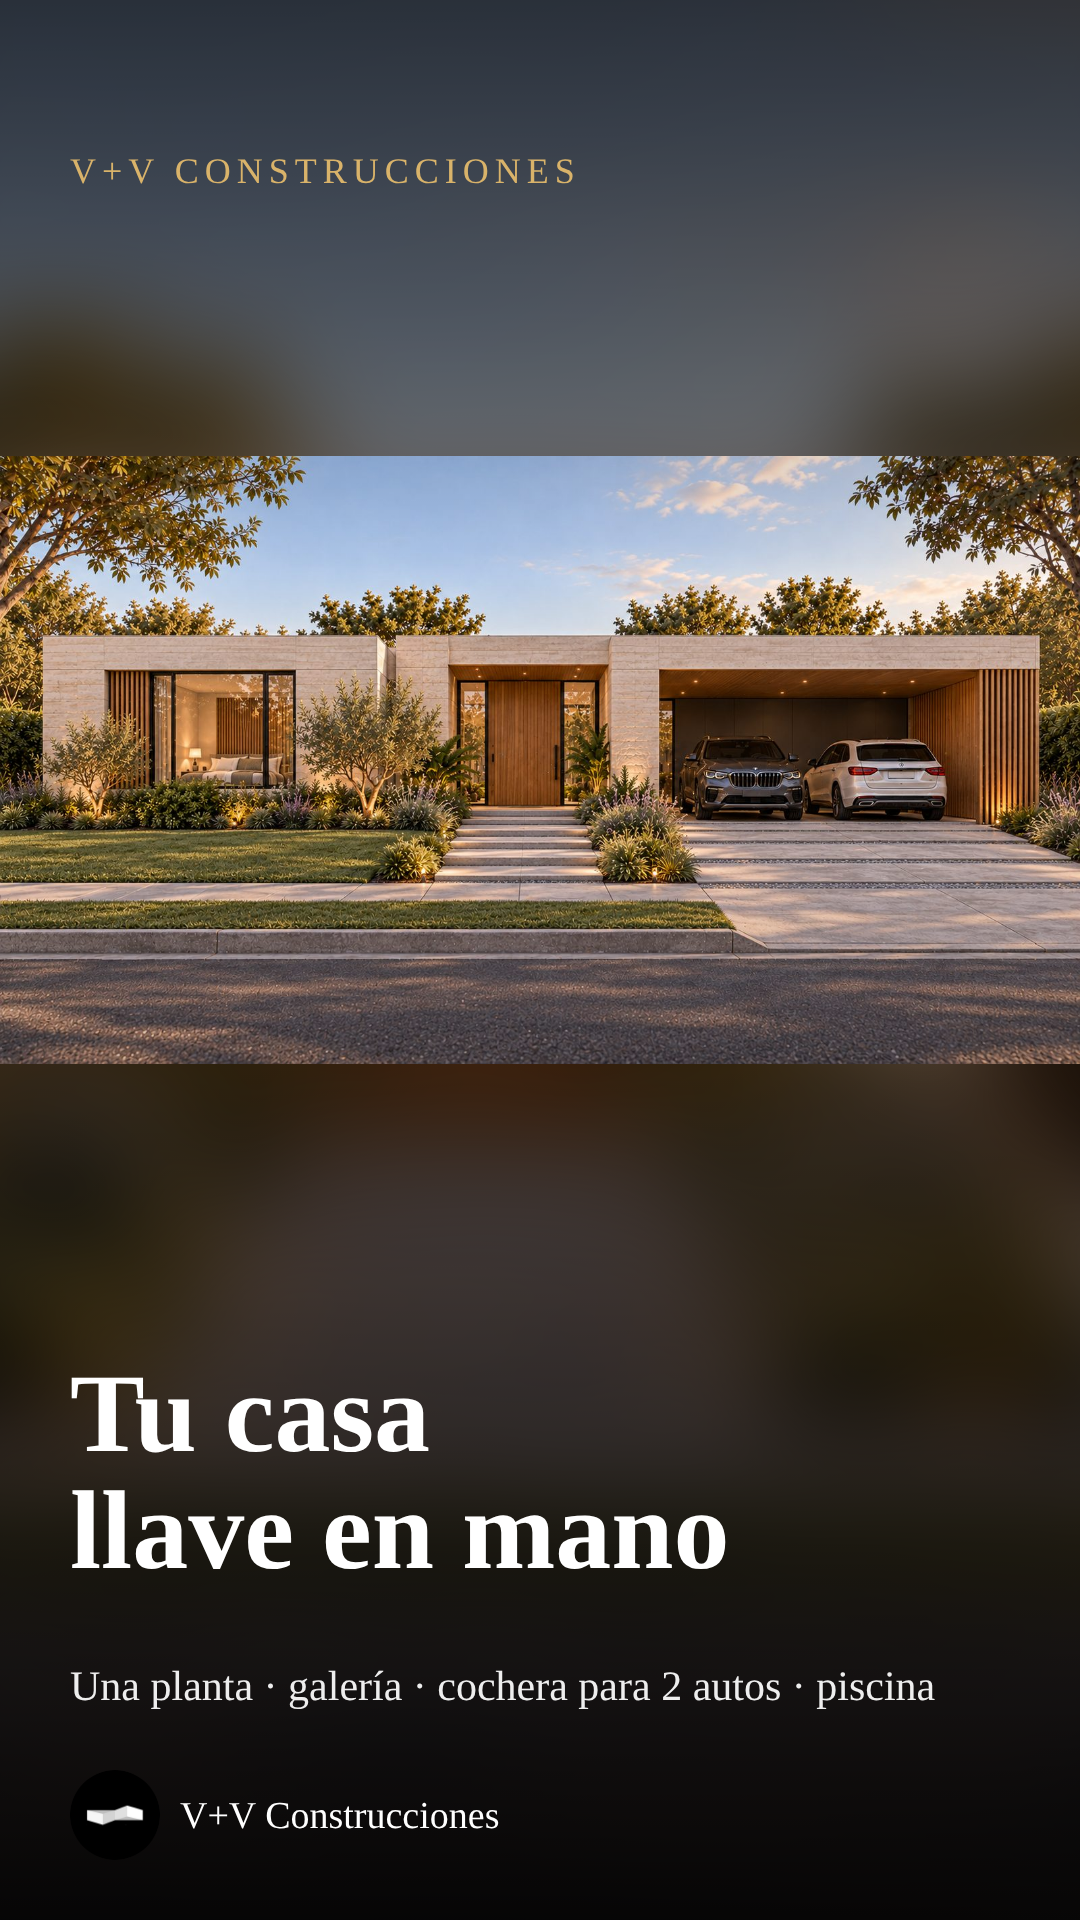
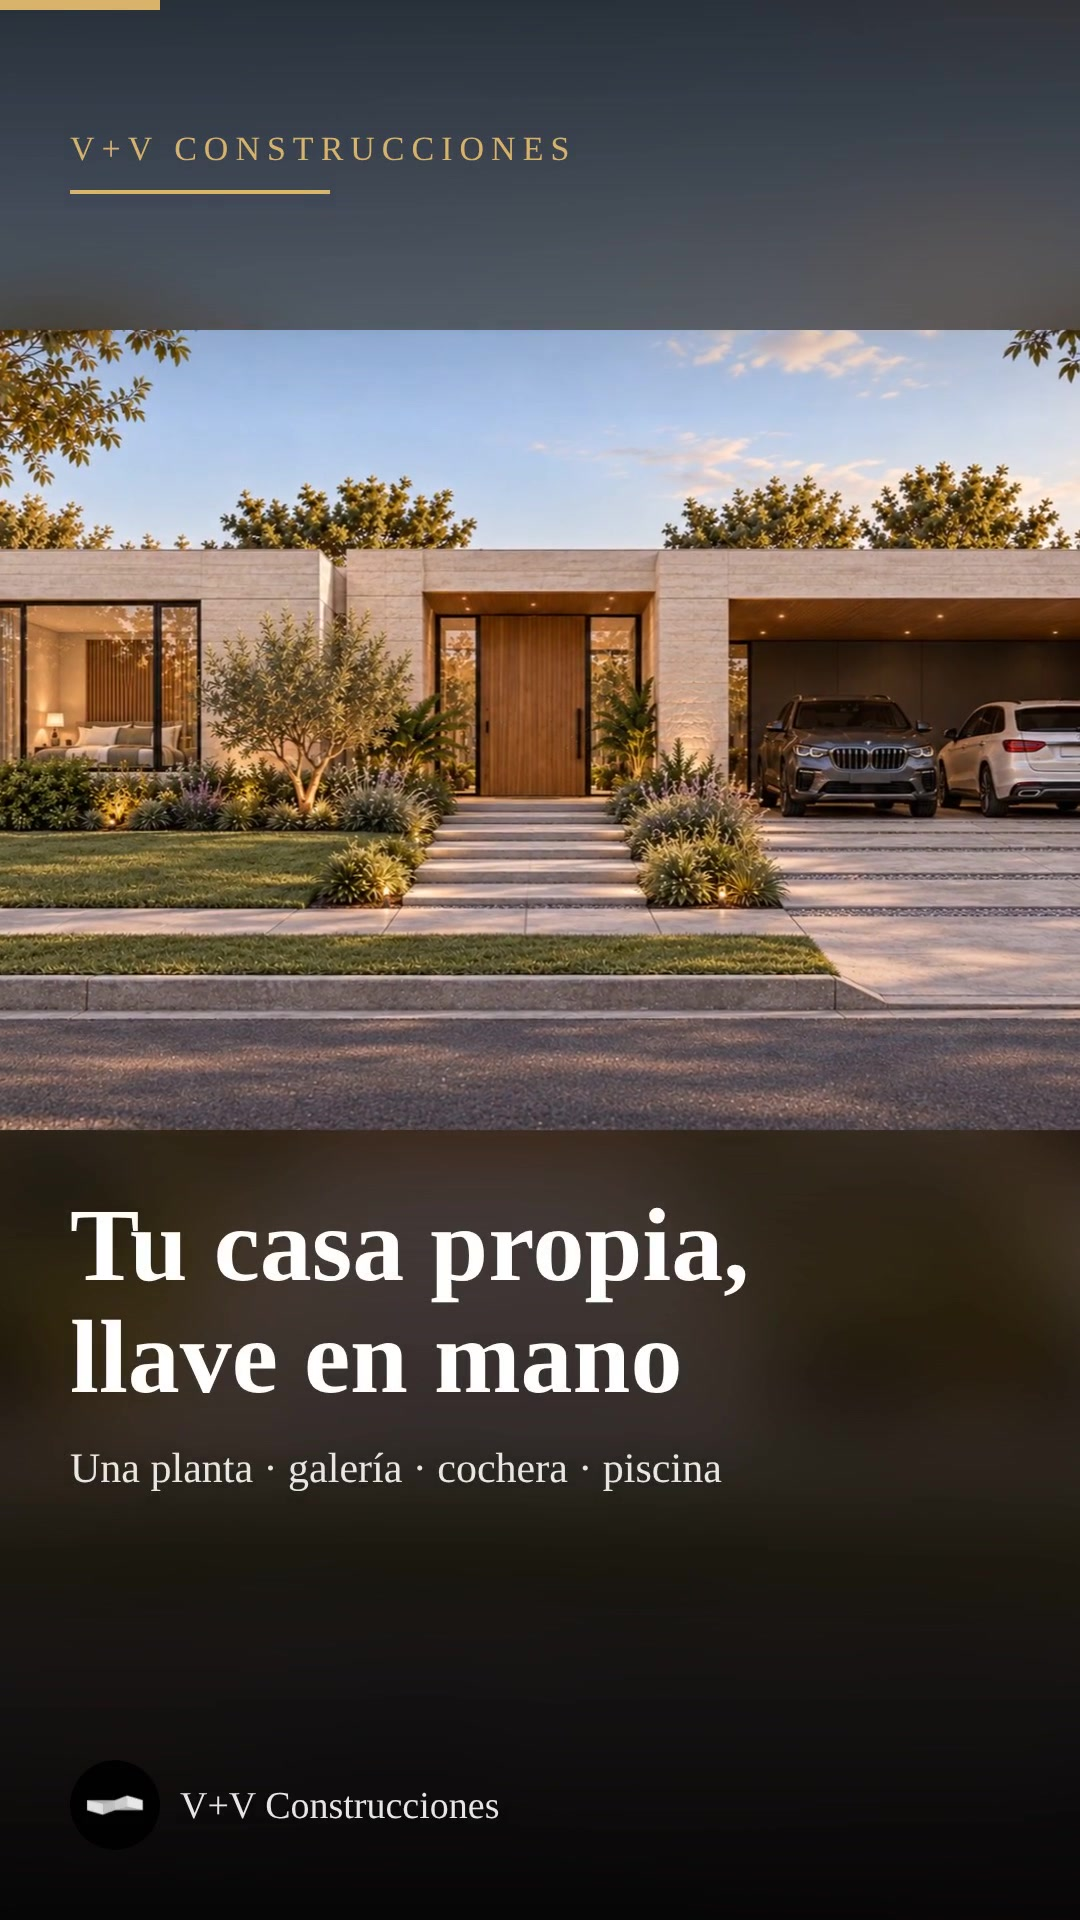
Casa: portada del video actualizada al nuevo diseño
Claude-Session: https://claude.ai/code/session_017SKhonoXudQffZs98TnERF

diff --git a/public/casa-costos.html b/public/casa-costos.html
@@ -1542,7 +1542,7 @@ function render(){const o=O();o.m2v=o.m2c;document.getElementById('tit').textCon
  <div class="row"><span>Según plano</span><b>Cubierta 146 m² · cochera 30 m² · galería 14 m² · total 190 m²</b></div>
  <div class="row"><span>m² a construir</span><b>${f0(o.m2c)} m²</b></div>
  <div class="row"><span>Precio de venta de la zona</span><b>${usd(o.zona)} / m²</b></div></div>
- <div class="card"><b>Video para historias</b><div class="sub">Video vertical de la casa y su financiación, listo para subir a Instagram.</div><video controls playsinline preload="metadata" poster="/docs/casa/portada-historia.png?v=2" src="/docs/casa/historia.mp4?v=4" style="width:100%;max-width:360px;display:block;margin:10px auto;border-radius:12px;background:#000"></video><div class="tools"><a class="btn gold sm" href="/docs/casa/historia.mp4?v=4" download>Descargar video</a><a class="btn sm" href="/docs/casa/portada-historia.png?v=2" download>Descargar portada</a><a class="btn sm" href="/docs/casa/horizontal.mp4?v=1" download>Descargar horizontal</a><a class="btn sm" href="/docs/casa/historia-sin-musica.mp4?v=1" download>Vertical sin música</a><a class="btn sm" href="/docs/casa/horizontal-sin-musica.mp4?v=1" download>Horizontal sin música</a></div></div>
+ <div class="card"><b>Video para historias</b><div class="sub">Video vertical de la casa y su financiación, listo para subir a Instagram.</div><video controls playsinline preload="metadata" poster="/docs/casa/portada-historia.png?v=3" src="/docs/casa/historia.mp4?v=4" style="width:100%;max-width:360px;display:block;margin:10px auto;border-radius:12px;background:#000"></video><div class="tools"><a class="btn gold sm" href="/docs/casa/historia.mp4?v=4" download>Descargar video</a><a class="btn sm" href="/docs/casa/portada-historia.png?v=3" download>Descargar portada</a><a class="btn sm" href="/docs/casa/horizontal.mp4?v=1" download>Descargar horizontal</a><a class="btn sm" href="/docs/casa/historia-sin-musica.mp4?v=1" download>Vertical sin música</a><a class="btn sm" href="/docs/casa/horizontal-sin-musica.mp4?v=1" download>Horizontal sin música</a></div></div>
  ${invHtml(o,r)}
  ${finHtml(o,r)}
  <div class="card"><b>Costos del proyecto</b>
